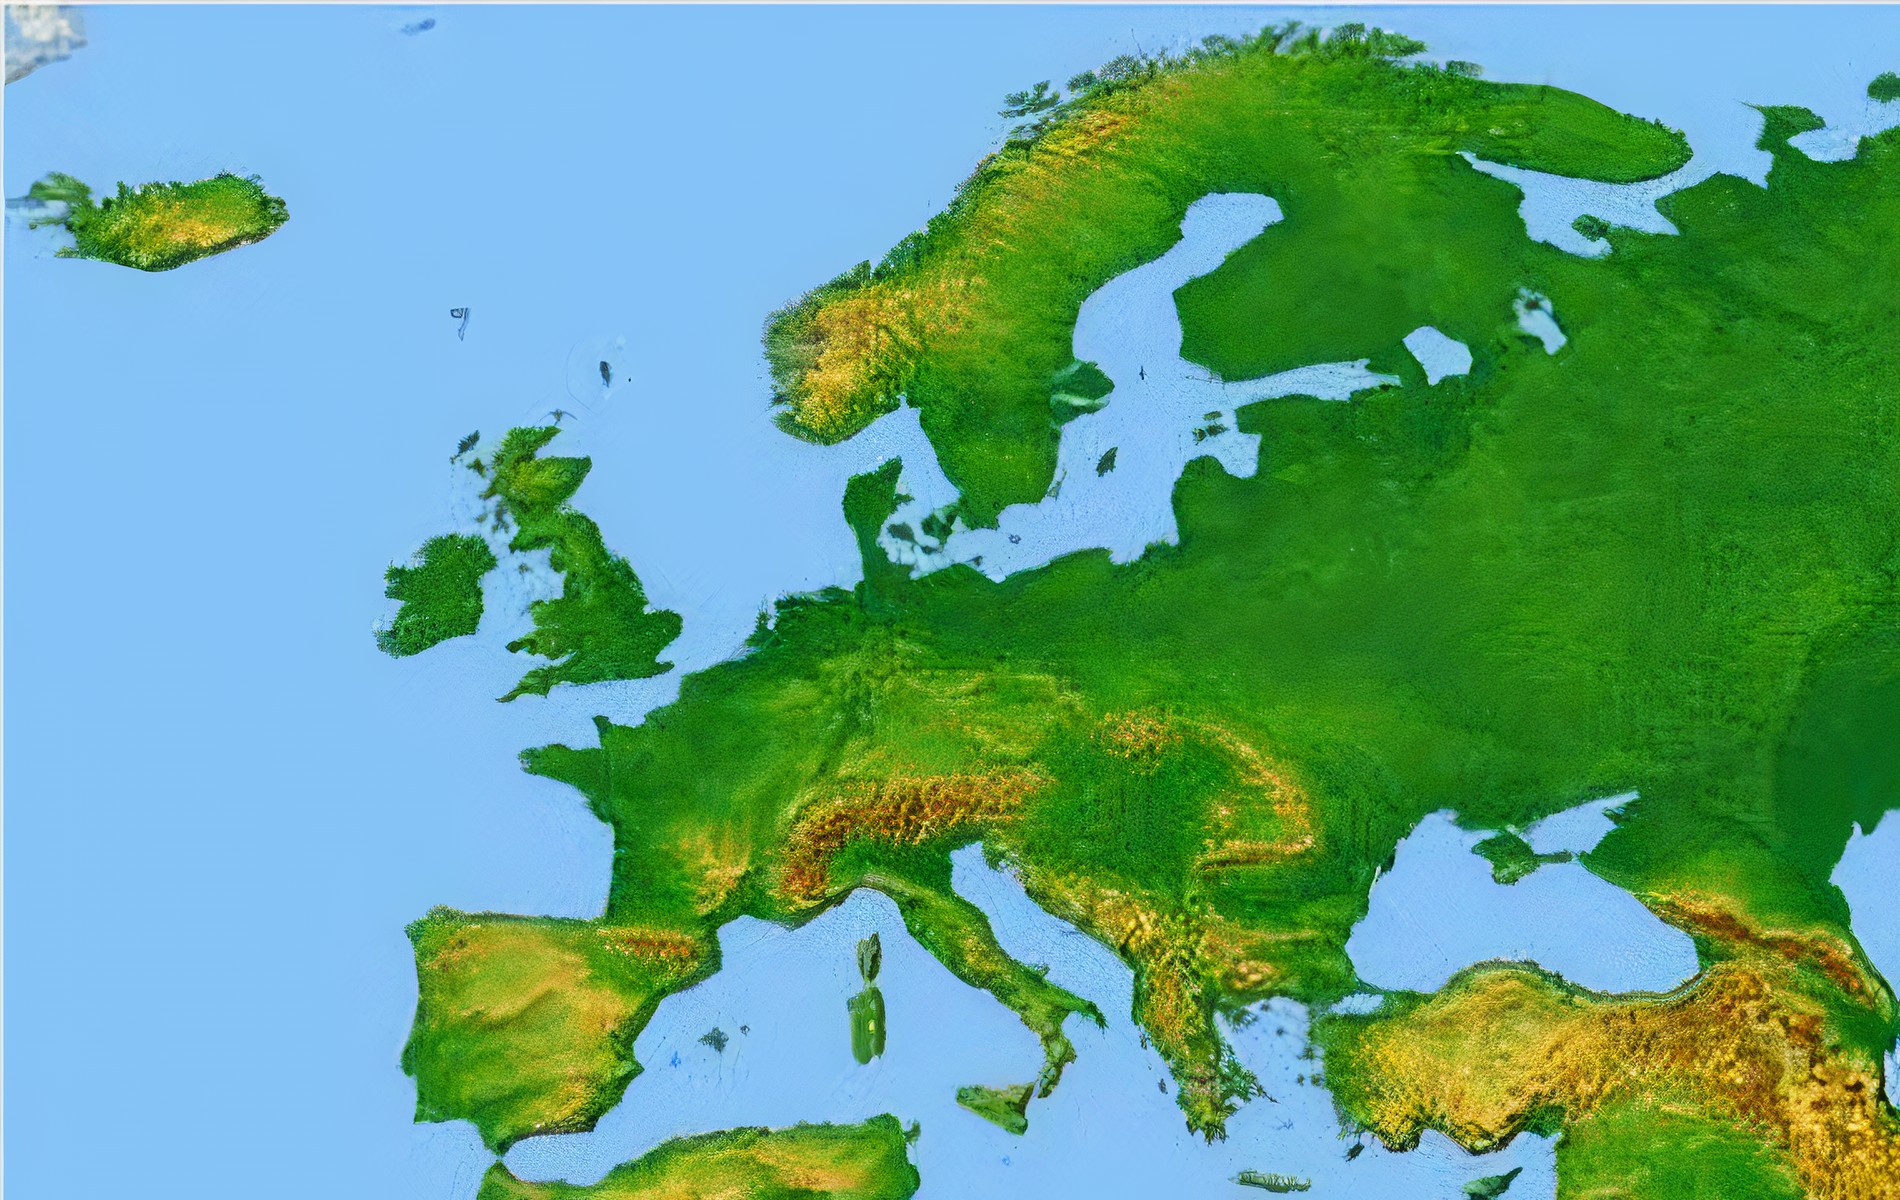
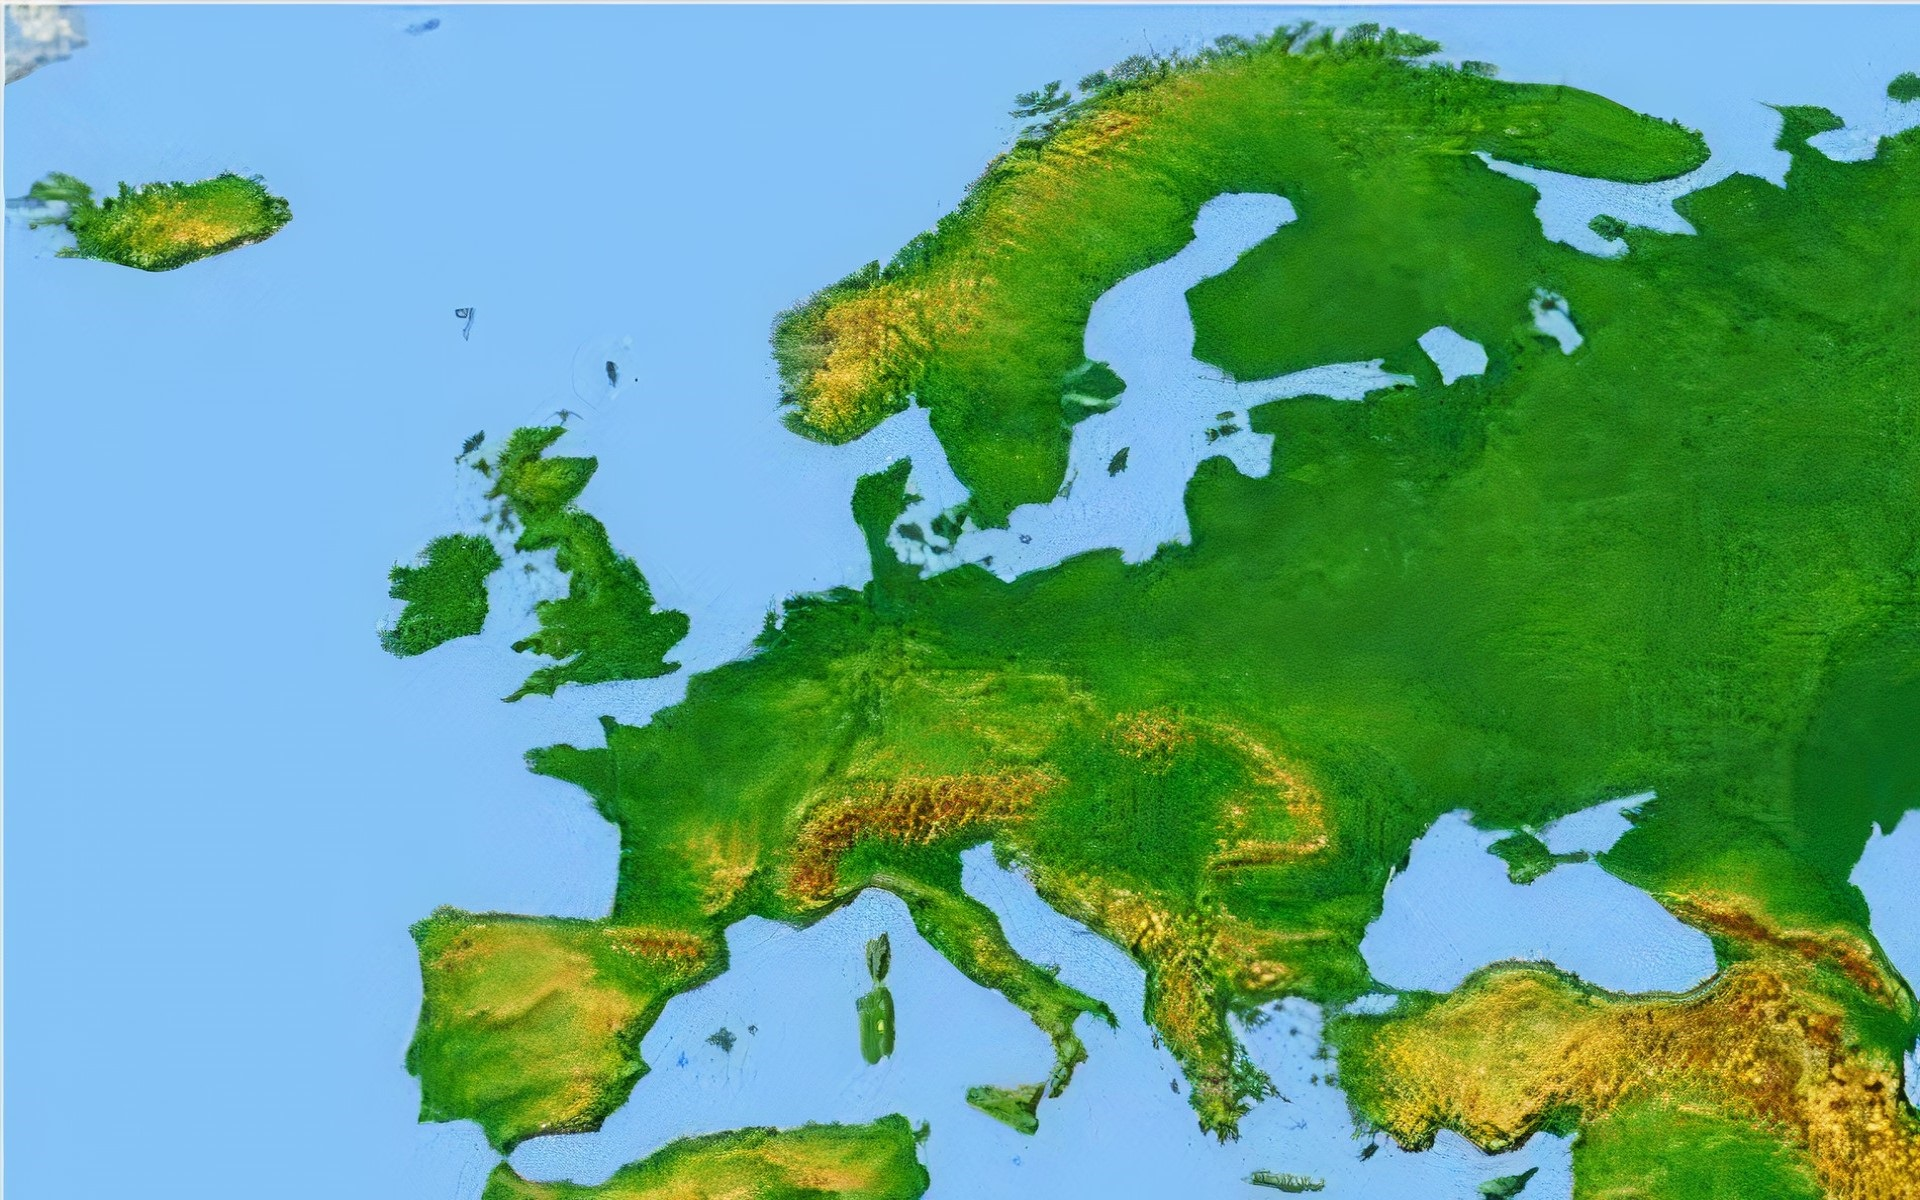
Stage-3: regions added: "Baltic sea" n "Black sea"

Changed region(s): [[0.7142, 0.925, 0.7453, 0.9558], [0.4658, 0.6783, 0.4968, 0.7092], [0.4037, 0.2467, 0.4347, 0.2775]]

diff --git a/src/com.dol/ui/elements/ImagePanel.java b/src/com.dol/ui/elements/ImagePanel.java
@@ -23,12 +23,15 @@ public class ImagePanel extends JPanel
     private final ToolBar toolBar;
     private final JLabel statusBar;
 
-    private final Image worldMap;
     private final Image europeMap;
-    private final Image WMEurope;
+    private final Image balticSeaMap;
+    private final Image blackSeaMap;
+    private final Image EMBaltic;
+    private final Image EMBlack;
+
     private Image currMap;
 
-    private Region region = Region.WORLD;
+    private Region region = Region.EUROPE;
 
     private int widthMap;
     private int heightMap;
@@ -47,14 +50,8 @@ public class ImagePanel extends JPanel
         addMouseMotionListener(this);
 
         try {
-            worldMap = ImageIO.read(new File("resources" + File.separator + "world map.jpg"));
-            currMap = worldMap;
-        } catch (IOException e) {
-            throw new FileNotFoundException("File \"world map.jpg\" not found");
-        }
-
-        try {
             europeMap = ImageIO.read(new File("resources" + File.separator + "europe map.jpg"));
+            currMap = europeMap;
         } catch (IOException e) {
             throw new FileNotFoundException("File \"europe map.jpg\" not found");
         }
@@ -72,9 +69,27 @@ public class ImagePanel extends JPanel
         }
 
         try {
-            WMEurope = ImageIO.read(new File("resources" + File.separator + "WM with europe.jpg"));
+            balticSeaMap = ImageIO.read(new File("resources" + File.separator + "baltic sea.jpg"));
         } catch (IOException e) {
-            throw new FileNotFoundException("File \"WM with europe.jpg\" not found");
+            throw new FileNotFoundException("File \"baltic sea.jpg\" not found");
+        }
+
+        try {
+            blackSeaMap = ImageIO.read(new File("resources" + File.separator + "black sea.jpg"));
+        } catch (IOException e) {
+            throw new FileNotFoundException("File \"black sea.jpg\" not found");
+        }
+
+        try {
+            EMBaltic = ImageIO.read(new File("resources" + File.separator + "EM with baltic.jpg"));
+        } catch (IOException e) {
+            throw new FileNotFoundException("File \"EM with baltic.jpg\" not found");
+        }
+
+        try {
+            EMBlack = ImageIO.read(new File("resources" + File.separator + "EM with black.jpg"));
+        } catch (IOException e) {
+            throw new FileNotFoundException("File \"EM with black.jpg\" not found");
         }
     }
 
@@ -110,17 +125,17 @@ public class ImagePanel extends JPanel
         new SpeedControllerWindow(frame).setVisible(true);
     }
 
-    public void setWorldRegion() {
+    public void setDefaultRegion() {
         A.deletePoint();
         B.deletePoint();
-        region = Region.WORLD;
-        currMap = worldMap;
+        region = Region.EUROPE;
+        currMap = europeMap;
         paintComponent(getGraphics());
     }
 
     public void run() {
 
-        if (currMap.equals(worldMap)) {
+        if (currMap.equals(europeMap)) {
             JOptionPane.showMessageDialog(frame, "Please select a region!", "Warning!", JOptionPane.WARNING_MESSAGE);
             return;
         }
@@ -145,14 +160,15 @@ public class ImagePanel extends JPanel
         Coordinates[] result = new Coordinates[temp.size()];
         temp.toArray(result);
 
-        int currLine = 7;
+        int k = 5;
+        int currLine = 2 + k;
         boolean toPaint = true;
 
         for (int i = 2; i < result.length; i++) {
 
             if (i > currLine) {
                 toPaint = !toPaint;
-                currLine += 5;
+                currLine += k;
             }
             if (!toPaint) continue;
 
@@ -180,14 +196,27 @@ public class ImagePanel extends JPanel
 
         GeoCoordinates point = new GeoCoordinates(e.getX(), e.getY(), widthMap, heightMap, region);
 
-        if (region == Region.WORLD) {
-            if (-25 < point.getLongitude() && point.getLongitude() < 50 &&
-                    35 < point.getLatitude() && point.getLatitude() < 71) {
-                region = Region.EUROPE;
-                currMap = europeMap;
+        if (region == Region.EUROPE) {
+
+
+            if (5.3 < point.getLongitude() && point.getLongitude() < 32.5 &&
+                    53 < point.getLatitude() && point.getLatitude() < 66.5 ) {
+
+                region = Region.BALTIC_SEA;
+                currMap = balticSeaMap;
 
                 toolBar.resetPressedAction();
                 paintComponent(getGraphics());
+
+            } else if (25.3 < point.getLongitude() && point.getLongitude() < 43.2 &&
+                    39.6 < point.getLatitude() && point.getLatitude() < 47.7 ) {
+
+                region = Region.BLACK_SEA;
+                currMap = blackSeaMap;
+
+                toolBar.resetPressedAction();
+                paintComponent(getGraphics());
+
             } else {
                 if (toolBar.getPressedAction() == ToolBar.Action.SET_A || toolBar.getPressedAction() == ToolBar.Action.SET_B) {
                     JOptionPane.showMessageDialog(frame, "Please select a region!", "Warning!", JOptionPane.WARNING_MESSAGE);
@@ -197,7 +226,6 @@ public class ImagePanel extends JPanel
 
             return;
         }
-
 
         switch (toolBar.getPressedAction()) {
 
@@ -225,22 +253,10 @@ public class ImagePanel extends JPanel
     }
 
     @Override
-    public void mousePressed(MouseEvent e) {
-        //if (e.isPopupTrigger())
-            //getComponentPopupMenu().show(e.getComponent(), e.getX(), e.getY());
-
-        //paintPoint(A);
-        //paintPoint(B);
-    }
+    public void mousePressed(MouseEvent e) {}
 
     @Override
-    public void mouseReleased(MouseEvent e) {
-        //if (e.isPopupTrigger())
-            //getComponentPopupMenu().show(e.getComponent(), e.getX(), e.getY());
-
-        //paintPoint(A);
-        //paintPoint(B);
-    }
+    public void mouseReleased(MouseEvent e) {}
 
     @Override
     public void mouseEntered(MouseEvent e) {}
@@ -256,15 +272,25 @@ public class ImagePanel extends JPanel
 
         GeoCoordinates point = new GeoCoordinates(e.getX(), e.getY(), widthMap, heightMap, region);
 
-        if (region == Region.WORLD) {
-            if (-25 < point.getLongitude() && point.getLongitude() < 50 &&
-                    35 < point.getLatitude() && point.getLatitude() < 71 ) {
-                if (!currMap.equals(WMEurope)) {
-                    currMap = WMEurope;
+        if (region == Region.EUROPE) {
+            if (5.3 < point.getLongitude() && point.getLongitude() < 32.5 &&
+                  53 < point.getLatitude() && point.getLatitude() < 66.5 ) {
+
+                if (!currMap.equals(EMBaltic)) {
+                    currMap = EMBaltic;
                     paintComponent(getGraphics());
                 }
-            } else if (!currMap.equals(worldMap)) {
-                currMap = worldMap;
+
+            } else if (25.3 < point.getLongitude() && point.getLongitude() < 43.2 &&
+                        39.6 < point.getLatitude() && point.getLatitude() < 47.7 ) {
+
+                if (!currMap.equals(EMBlack)) {
+                    currMap = EMBlack;
+                    paintComponent(getGraphics());
+                }
+
+            } else if (!currMap.equals(europeMap)) {
+                currMap = europeMap;
                 paintComponent(getGraphics());
             }
         }

diff --git a/src/com.dol/ui/util/GeoCoordinates.java b/src/com.dol/ui/util/GeoCoordinates.java
@@ -21,14 +21,19 @@ public class GeoCoordinates {
 
         switch (region) {
 
-            case WORLD -> {
-                longitude = (x - (double) width / 2) / width * 360;
-                latitude = -(y - (double) height / 2) / height * 180;
-            }
-
             case EUROPE -> {
                 longitude = -25 + (double) (x) / width * 75;
                 latitude = 71 + (double) (-y) / height * 36;
+            }
+
+            case BALTIC_SEA -> {
+                longitude = 5.3 + (double) (x) / width * 27.2;
+                latitude = 66.5 + (double) (-y) / height * 13.5;
+            }
+
+            case BLACK_SEA -> {
+                longitude = 25.3 + (double) (x) / width * 17.9;
+                latitude = 47.7 + (double) (-y) / height * 8.1;
             }
         }
     }
@@ -49,3 +54,12 @@ public class GeoCoordinates {
         return latitude;
     }
 }
+
+
+/*
+
+for (int i = 0; i < 8; i++) {
+    resultingSpeed[i] = wind.speed * Math.cos(Math.toRadians(wind.degree - 45 * i)) + speed;
+}
+
+ */

diff --git a/src/com.dol/ui/util/ImagePanelObserver.java b/src/com.dol/ui/util/ImagePanelObserver.java
@@ -26,8 +26,8 @@ public class ImagePanelObserver {
         panel.run();
     }
 
-    public void setWorldRegion() {
-        panel.setWorldRegion();
+    public void setDefaultRegion() {
+        panel.setDefaultRegion();
     }
 
     public void openSpeedControllerWindow() {

diff --git a/src/com.dol/ui/elements/ToolBar.java b/src/com.dol/ui/elements/ToolBar.java
@@ -146,7 +146,7 @@ public class ToolBar extends JToolBar {
 
         @Override
         public void actionPerformed(ActionEvent e) {
-            observer.setWorldRegion();
+            observer.setDefaultRegion();
         }
     }
 }

diff --git a/src/com.dol/ui/util/Region.java b/src/com.dol/ui/util/Region.java
@@ -1,6 +1,7 @@
 package com.dol.ui.util;
 
 public enum Region {
-    WORLD,
-    EUROPE
+    EUROPE,
+    BALTIC_SEA,
+    BLACK_SEA
 }
